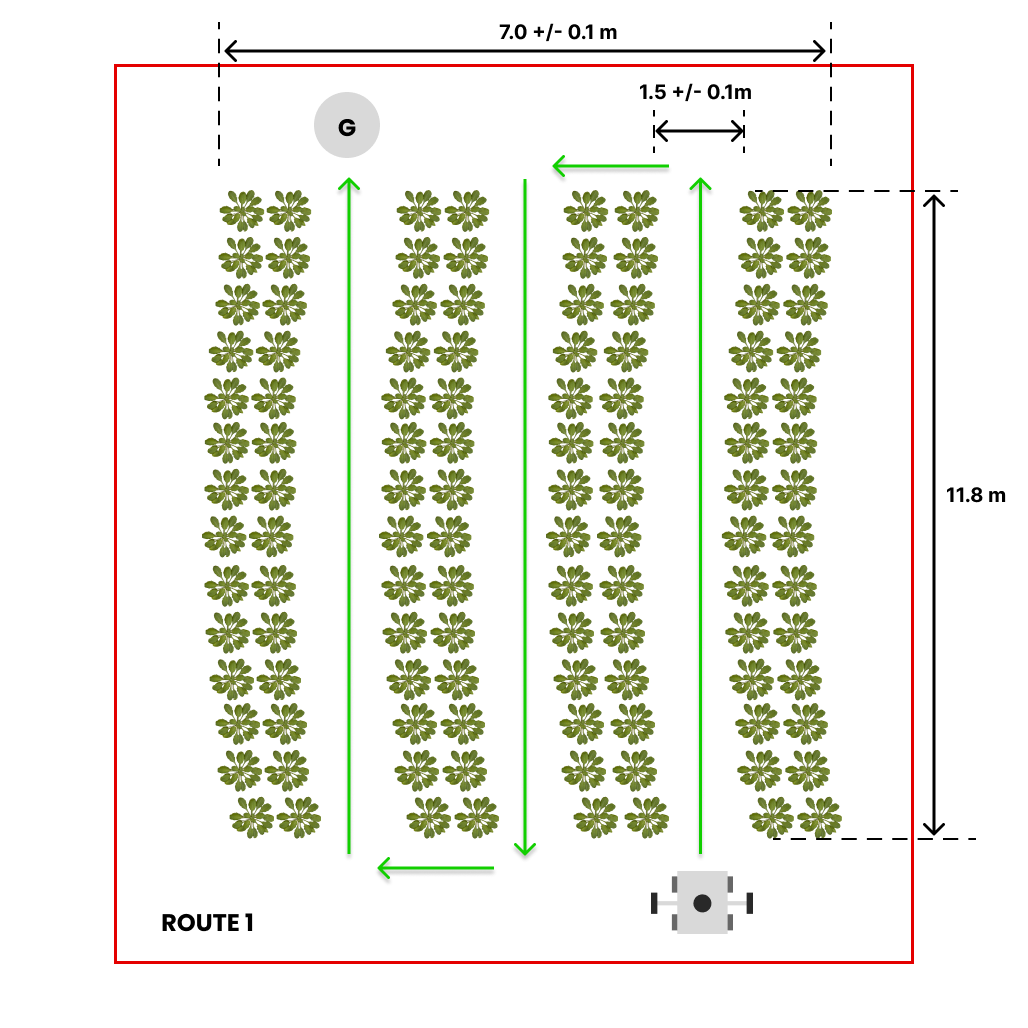
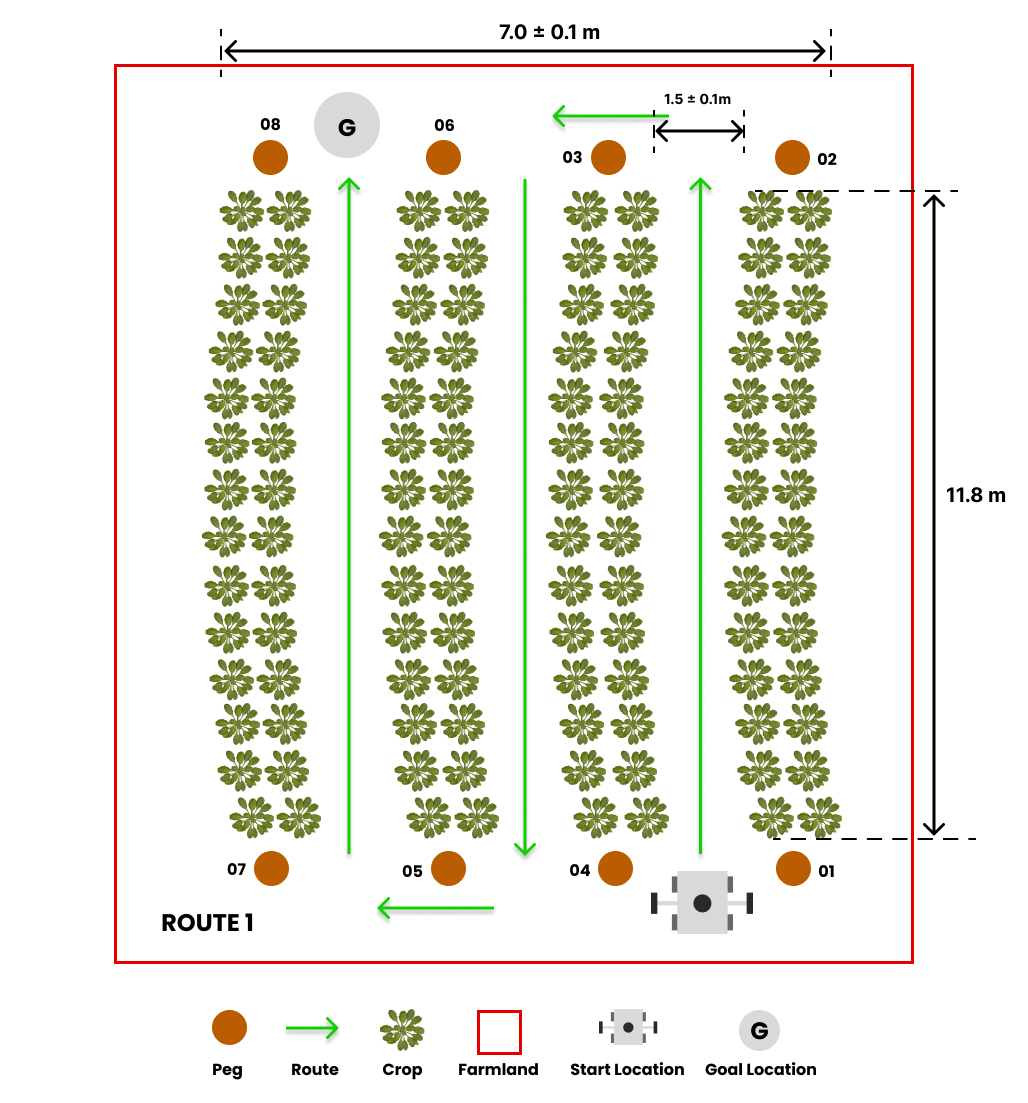
update task1 description

diff --git a/docs/competition-instructions/phase-1/task-1-autonomous-field-navigation.md b/docs/competition-instructions/phase-1/task-1-autonomous-field-navigation.md
@@ -17,7 +17,19 @@ You should see the display below in Gazebo and RViz respectively. To the right, 
 ![task1_world](../assets/task1_view.jpg)
 
 ### Exploring Multiple Routes
-* We have prepared three pre-defined routes you can use as you develop your solution with each route having different goal location. The default route is `route1`, but you can select the second and third route option (`route2` and `route3`) by passing the argument in the roslaunch command as follows:
+* We have prepared three pre-defined routes you can use as you develop your solution with each route having different goal location.
+
+=== "Route 1"
+    ![task1_world](../assets/Task1Route1.png)
+
+=== "Route 2"
+    ![task1_world](../assets/Task1Route2.png)
+
+=== "Route 3"
+    ![task1_world](../assets/Task1Route3.png)
+
+
+The default route is `route1`, but you can select the second and third route option (`route2` and `route3`) by passing the argument in the roslaunch command as follows:
 
 ```sh
 ## route2
@@ -29,7 +41,7 @@ roslaunch parc_robot parc_task1.launch route:=route3
 
 * We recommend you play around with at least these three routes to ensure your solution is robust to different start locations.
 
-* To obtain the goal location for this task, regardless of the route option, you can use a ROS parameter. Here is an example of how to obtain the goal location as a ROS parameter:
+* To obtain the GPS goal location for this task, regardless of the route option, you can use a ROS parameter. Here is an example of how to obtain the goal location as a ROS parameter:
 
 === "Matlab"
     ```matlab
@@ -40,7 +52,7 @@ roslaunch parc_robot parc_task1.launch route:=route3
     goal = rosparam('get', 'goal_location');
 
     % Print the goal location
-    disp(['goal location: ' num2str(goal.x) ' ' num2str(goal.y) ' ' num2str(goal.z)])
+    disp(['goal location: ' num2str(goal.latitude) ' ' num2str(goal.longitude)])
 
     ```
 === "Python"
@@ -53,10 +65,10 @@ roslaunch parc_robot parc_task1.launch route:=route3
 
     # Get goal parameter
     goal = rospy.get_param('goal_location')
-    x, y, z = goal['x'], goal['y'], goal['z']
+    lat, lon = goal['latitude'], goal['longitude']
 
     # Print goal location
-    rospy.loginfo("goal location: %f %f %f", x, y, z)
+    rospy.loginfo("goal location: %f %f %f", lat, lon)
 
     ```
 === "C++"
@@ -73,11 +85,64 @@ roslaunch parc_robot parc_task1.launch route:=route3
       ros::param::get("goal_location", goal);
 
       // Print goal location
-      ROS_INFO("goal location: %f %f %f", goal["x"], goal["y"], goal["z"]);
+      ROS_INFO("goal location: %f %f %f", goal["latitude"], goal["longitude"]);
 
       return 0;
     }
     ```
+
+Similarly, the GPS coordinates of the pegs on the farmland can be obtained as a parameter if you need it for localization. Here is an example of how to obtain the GPS coordinate of **peg 01**:
+
+=== "Matlab"
+    ```matlab
+    % Initialize the ROS node
+    rosinit
+
+    % Get the peg parameter
+    peg01 = rosparam('get', 'peg_01');
+
+    % Print the goal location
+    disp(['peg01 coordinate: ' num2str(peg01.latitude) ' ' num2str(peg01.longitude)])
+
+    ```
+=== "Python"
+    ```python
+    #!/usr/bin/env python
+
+    import rospy
+
+    rospy.init_node('peg01_coordinate')
+
+    # Get goal parameter
+    peg01 = rospy.get_param('peg_01')
+    lat, lon = peg01['latitude'], peg01['longitude']
+
+    # Print goal location
+    rospy.loginfo("peg01 coordinate: %f %f %f", lat, lon)
+
+    ```
+=== "C++"
+    ```cpp
+    #include <ros/ros.h>
+    #include "map"
+
+    int main(int argc, char** argv)
+    {
+      ros::init(argc, argv, "peg01_coordinate");
+
+      // Get goal parameter
+      std::map<std::string, double> peg01;
+      ros::param::get("peg_01", peg01);
+
+      // Print goal location
+      ROS_INFO("peg01 coordinate: %f %f %f", peg01["latitude"], peg01["longitude"]);
+
+      return 0;
+    }
+    ```
+
+!!! note "Note"
+    **DO NOT** use the cartesian coordinates of the goal location and pegs provided by Gazebo or the world file in any way. You will be disqualified if you do.
 
 ### Preparing your Solution
 * Your solution should be prepared as ROS packages to be saved in your solution folder. Create a launch file in your ROS package which runs ALL the code you need in your solution. Name this launch file: `task1_solution.launch`.
@@ -110,19 +175,6 @@ In another terminal:
 ```sh
 roslaunch <your-package-name> task1_solution.launch`
 ```
-
-### Route Description
-
-=== "Route 1"
-    ![task1_world](../assets/Task1Route1.png)
-
-=== "Route 2"
-    ![task1_world](../assets/Task1Route2.png)
-
-=== "Route 3"
-    ![task1_world](../assets/Task1Route3.png)
-
-The red line is the farmland while the green lines specify the path within the crop rows that **MUST** be followed by the robot for each route to the goal location represented as **G**.
 
 ## Task Rules
 
